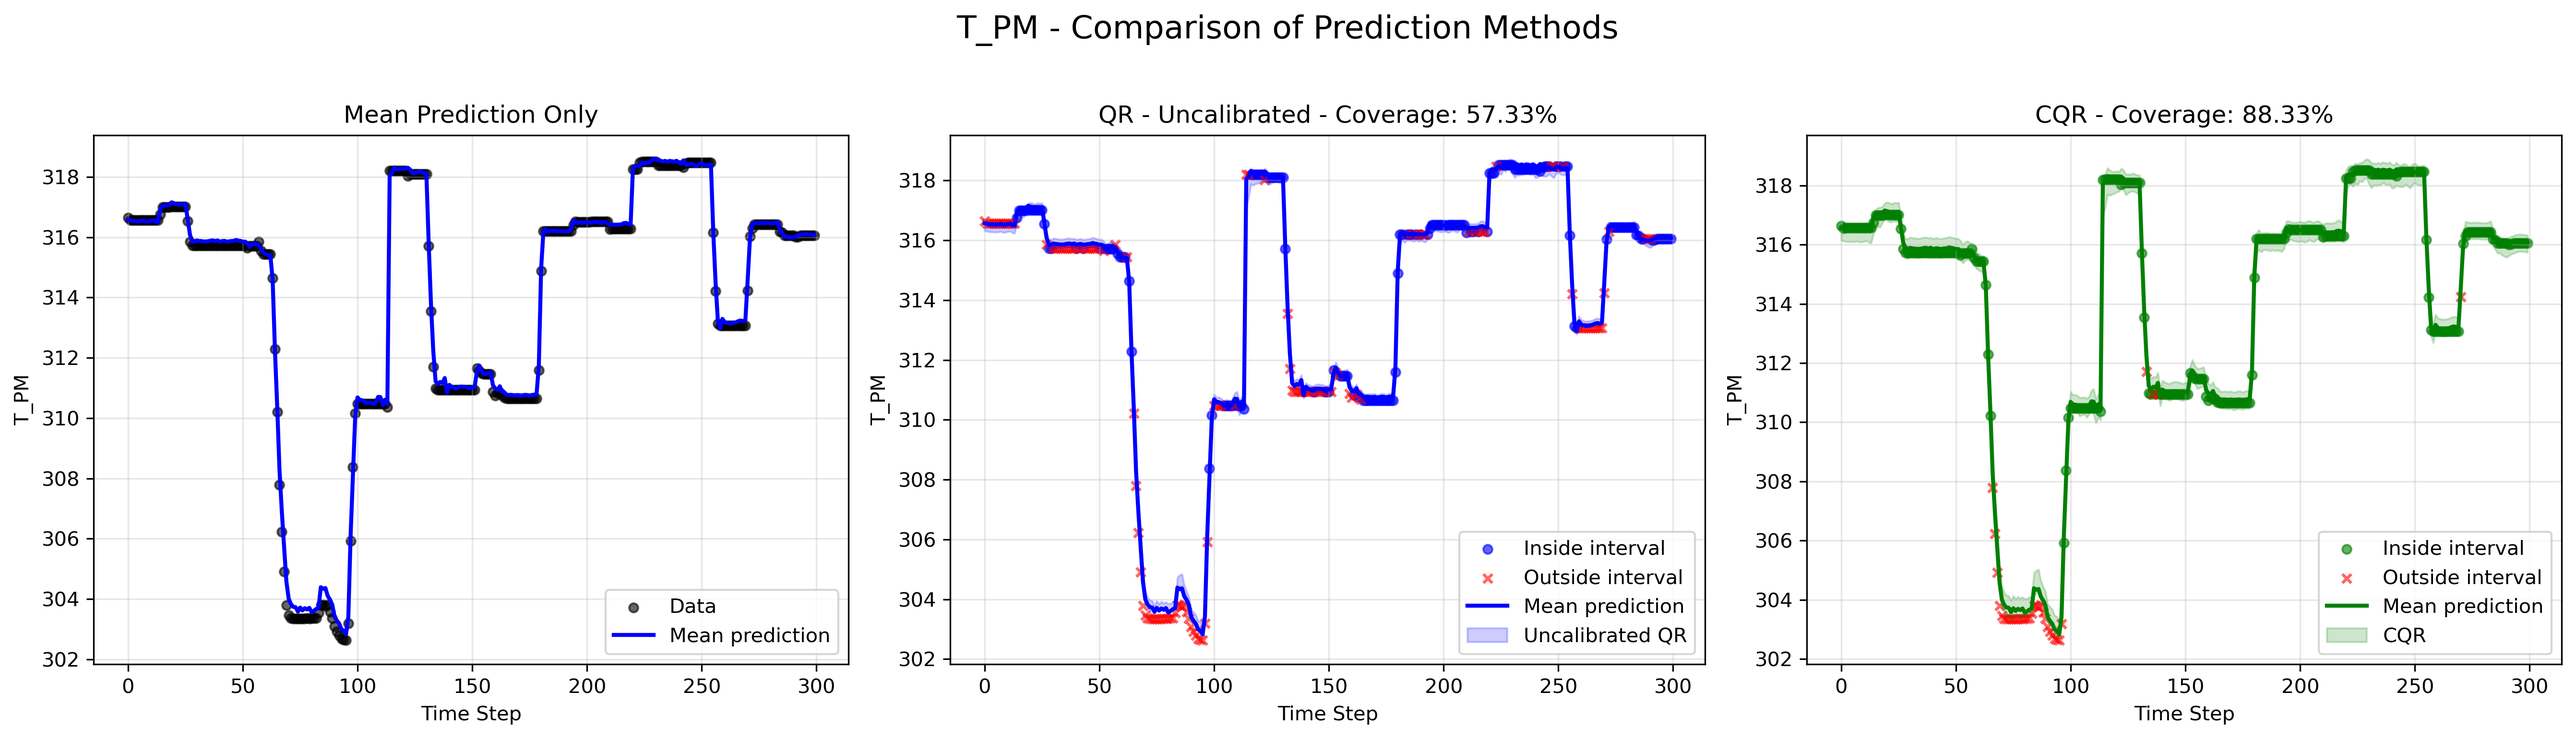
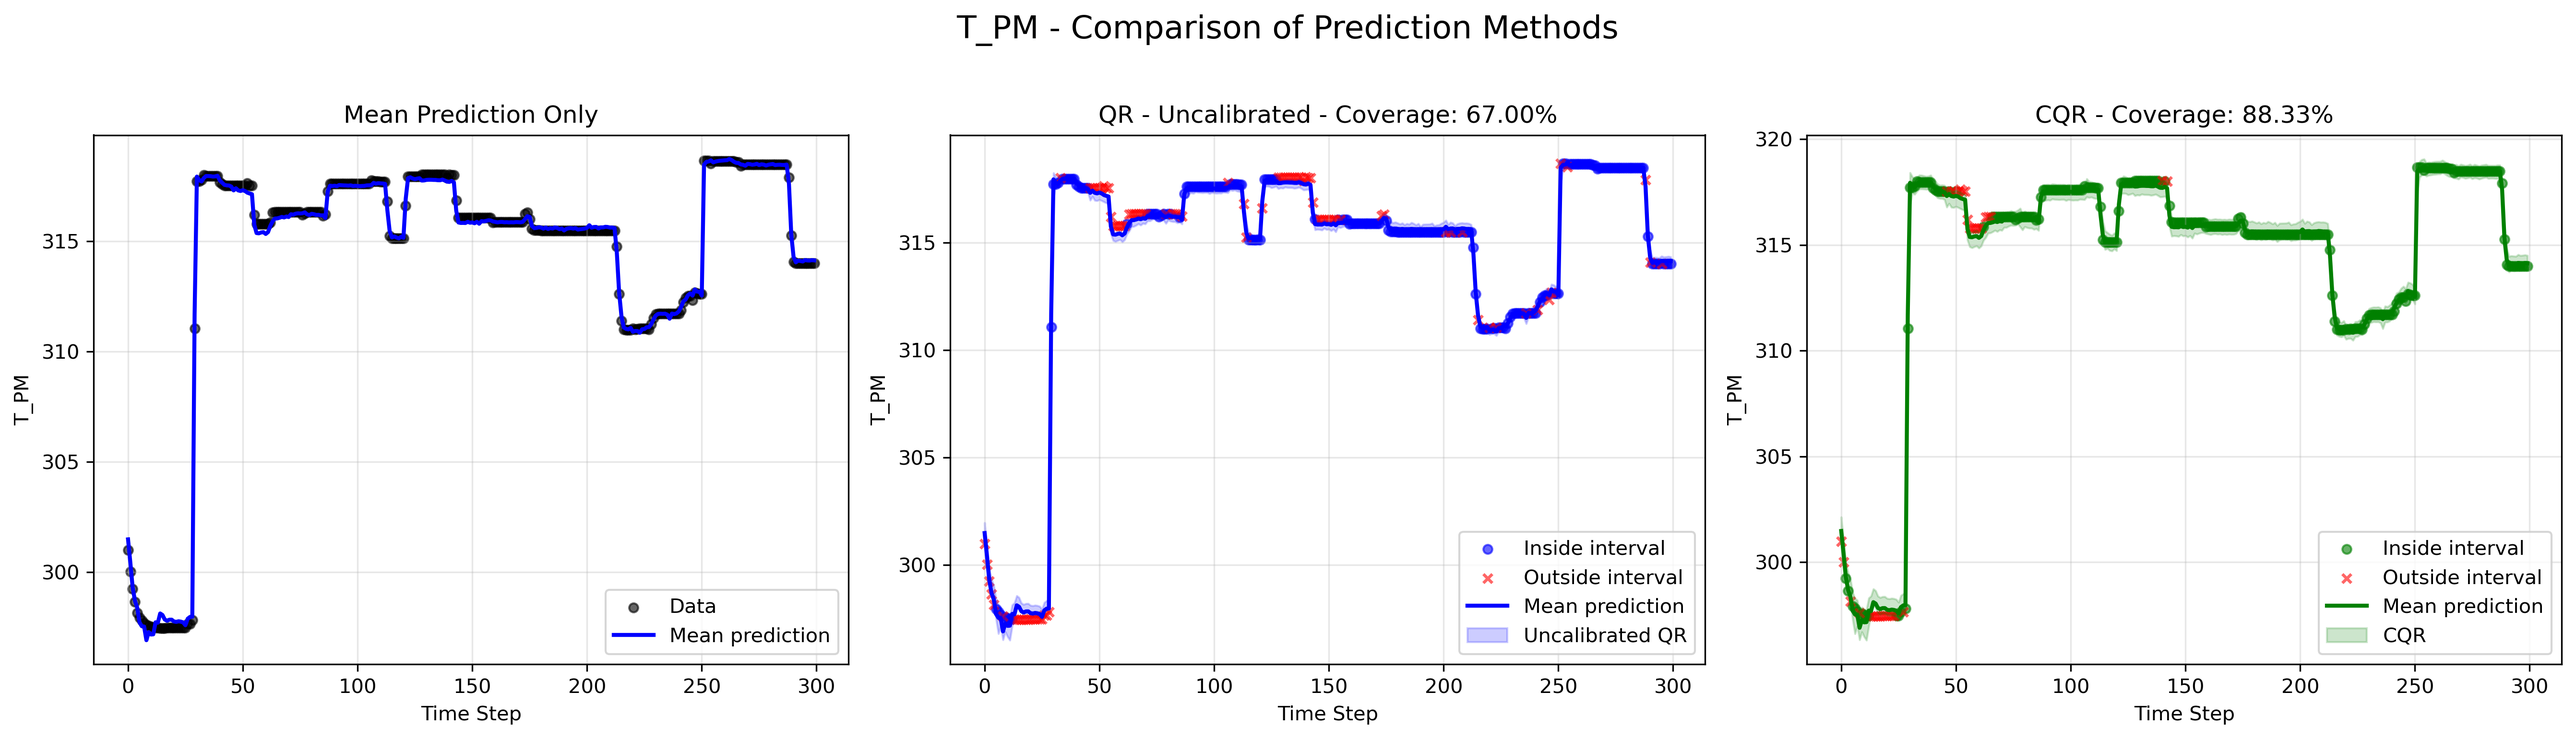
Change epochs and split

diff --git a/tools/cqr/cqr_simple.py b/tools/cqr/cqr_simple.py
@@ -99,7 +99,7 @@ def generate_error_dataset(model, data_files, window_size, scaler):
     print(f"Generated {len(all_inputs)} error samples")
     return np.array(all_inputs), {k: np.array(v) for k, v in all_errors.items()}
 
-def train_quantile_regressor(inputs, errors, tau, epochs=50, batch_size=64, lr=1e-3):
+def train_quantile_regressor(inputs, errors, tau, epochs=80, batch_size=64, lr=1e-3):
     """Train a quantile regressor"""    
     dataset = ErrorDataset(inputs, errors)
     dataloader = DataLoader(dataset, batch_size=batch_size, shuffle=True)
@@ -184,6 +184,59 @@ def compute_conformity_scores(model, quantile_models, cal_files, window_size, sc
 
 def plot_all_states_comparison(model, quantile_models, correction_factors, 
                               test_files, window_size, scaler, save_dir):
+    # --------- PART 1: Compute average coverage across all test files ---------
+    print("\nComputing average coverage across all test files...")
+    state_coverages = {name: {'uncal': [], 'cal': []} for name in STATE_NAMES}
+
+    for test_file in test_files:
+        X, Y = load_batch_data(test_file, window_size, scaler)
+        X_tensor = torch.tensor(X, dtype=torch.float32).to(DEVICE)
+
+        for state_idx in range(STATE_COLS):
+            state_name = f'state_{state_idx}'
+            state_label = STATE_NAMES[state_idx]
+
+            n_points = min(300, len(X))
+            indices = np.linspace(0, len(X)-1, n_points, dtype=int)
+            X_subset = X_tensor[indices]
+            Y_subset = Y[indices, state_idx]
+
+            with torch.no_grad():
+                Y_pred_all = model(X_subset).cpu().numpy()
+                Y_pred = Y_pred_all[:, state_idx]
+                q_low = quantile_models[state_name]['low'](X_subset).cpu().squeeze().numpy()
+                q_high = quantile_models[state_name]['high'](X_subset).cpu().squeeze().numpy()
+
+                uncal_lower = Y_pred + q_low
+                uncal_upper = Y_pred + q_high
+                correction = correction_factors[state_name]
+                cal_lower = uncal_lower - correction
+                cal_upper = uncal_upper + correction
+
+            def unscale(arr):
+                dummy = np.zeros((len(arr), STATE_COLS + CONTROL_COLS))
+                dummy[:, state_idx] = arr
+                return scaler.inverse_transform(dummy)[:, state_idx]
+
+            Y_true_uns = unscale(Y_subset)
+            uncal_lower_uns = unscale(uncal_lower)
+            uncal_upper_uns = unscale(uncal_upper)
+            cal_lower_uns = unscale(cal_lower)
+            cal_upper_uns = unscale(cal_upper)
+
+            uncal_coverage = np.mean((Y_true_uns >= uncal_lower_uns) & (Y_true_uns <= uncal_upper_uns)) * 100
+            cal_coverage = np.mean((Y_true_uns >= cal_lower_uns) & (Y_true_uns <= cal_upper_uns)) * 100
+
+            state_coverages[state_label]['uncal'].append(uncal_coverage)
+            state_coverages[state_label]['cal'].append(cal_coverage)
+
+    print("\n--- Average Coverage over All Test Files ---")
+    for state, vals in state_coverages.items():
+        avg_uncal = np.mean(vals['uncal'])
+        avg_cal = np.mean(vals['cal'])
+        print(f"{state:6}: Uncalibrated {avg_uncal:.2f}% → CQR {avg_cal:.2f}%")
+
+    # --------- PART 2: Plotting for one file only (randomly selected) ---------
     # Pick a random test file
     random.seed(44)
     test_file = random.choice(test_files)
@@ -307,8 +360,8 @@ def main():
     
     # Load data files and split
     data_files = [os.path.join(data_path, f) for f in os.listdir(data_path) if f.endswith(".txt")]
-    train_files, temp_files = train_test_split(data_files, test_size=0.3, random_state=42)
-    cal_files, test_files = train_test_split(temp_files, test_size=0.5, random_state=42)
+    train_files, temp_files = train_test_split(data_files, test_size=0.2, random_state=44)
+    cal_files, test_files = train_test_split(temp_files, test_size=0.5, random_state=44)
     
     print(f"Training: {len(train_files)} files")
     print(f"Calibration: {len(cal_files)} files")
